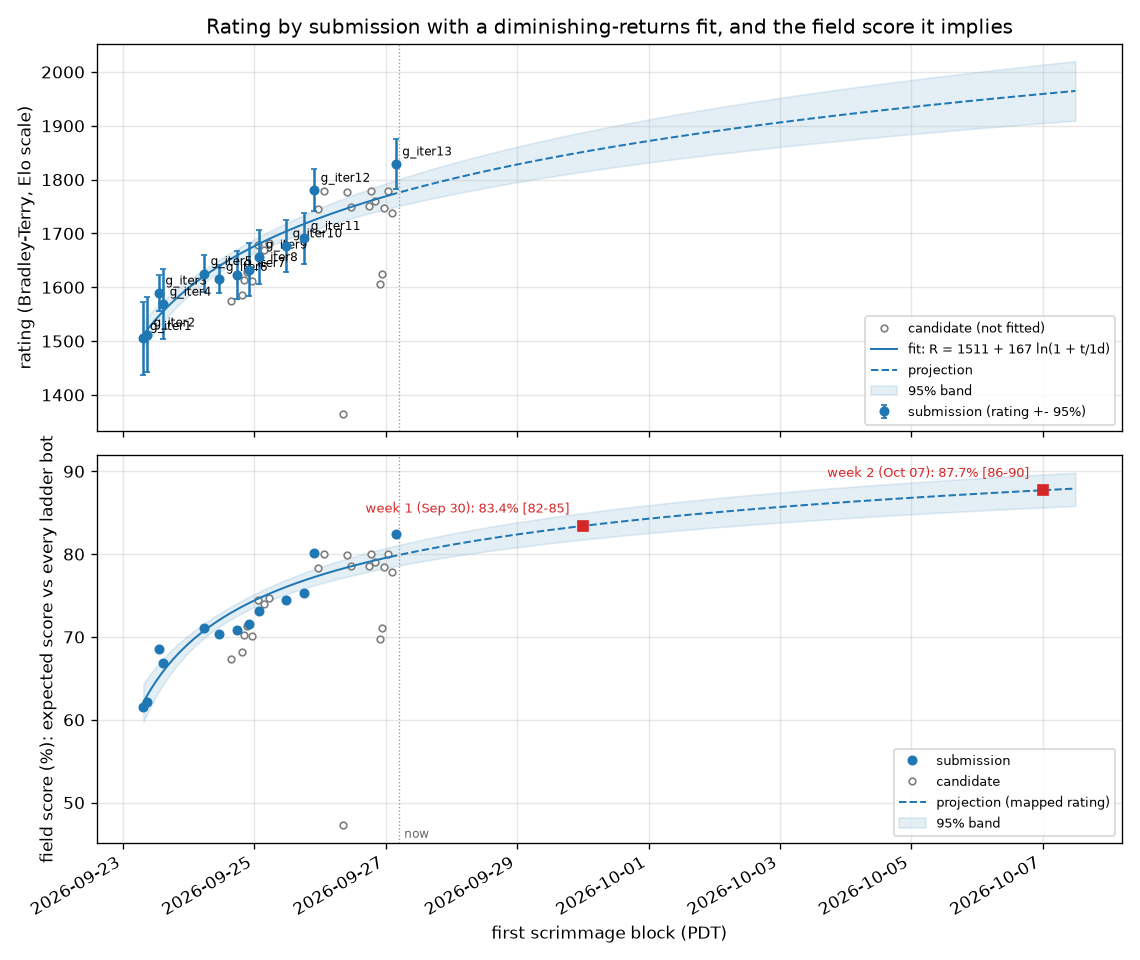
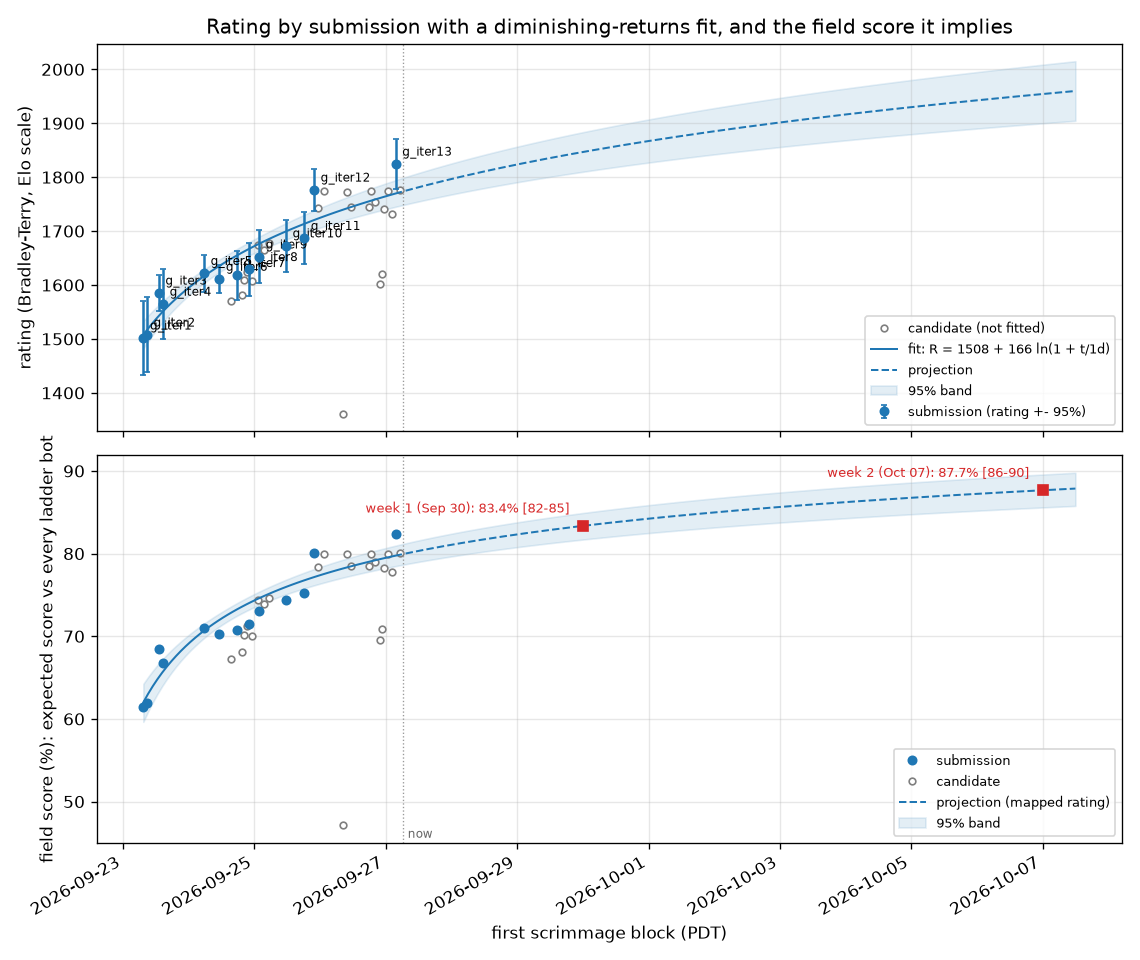
PROMPTS 51
Claude-Session: https://claude.ai/code/session_015tNyF5ucwWW1mudpEQTT25

diff --git a/progress/ELO.md b/progress/ELO.md
@@ -1,146 +1,148 @@
 # Ladder
 
-8200 scrimmages (ours only), 7676 distinct (a repeated pairing with the same seed replays the same game and counts once), rated by a batch Bradley-Terry fit on the Elo scale (`tools/elolib.py`); each of our builds is its own player. 65 of 65 ladder bots met.
+8248 scrimmages (ours only), 7724 distinct (a repeated pairing with the same seed replays the same game and counts once), rated by a batch Bradley-Terry fit on the Elo scale (`tools/elolib.py`); each of our builds is its own player. 65 of 65 ladder bots met.
 
 Our builds (rating +- 95%; field score = expected score against every ladder bot, one game each):
 
 | build | rating | rank | games | record | field score |
 |---|---|---|---|---|---|
-| g_iter13 | 1829 +- 46 | 12 of 100 | 240 | 134-106 | 82.4% |
-| g_iter12 | 1780 +- 40 | 14 of 100 | 336 | 159-177 | 80.1% |
-| cand69 | 1779 +- 73 | 15 of 100 | 96 | 46-50 | 80.0% |
-| r1s13 | 1779 +- 46 | 16 of 100 | 240 | 118-122 | 80.0% |
-| cand86s3 | 1779 +- 46 | 17 of 100 | 240 | 118-122 | 80.0% |
-| cand81 | 1777 +- 91 | 18 of 100 | 95 | 67-28 | 79.9% |
-| cand87 | 1760 +- 46 | 19 of 100 | 240 | 112-128 | 79.1% |
-| cand86s2 | 1750 +- 73 | 20 of 100 | 96 | 44-52 | 78.6% |
-| cand81s8 | 1750 +- 48 | 21 of 100 | 240 | 85-155 | 78.6% |
-| r1s11 | 1747 +- 46 | 22 of 100 | 240 | 108-132 | 78.4% |
-| cand65 | 1746 +- 74 | 23 of 100 | 96 | 42-54 | 78.4% |
-| r1s14 | 1737 +- 46 | 24 of 100 | 240 | 105-135 | 77.9% |
-| g_iter11 | 1691 +- 48 | 25 of 100 | 240 | 107-133 | 75.3% |
-| cand49b | 1682 +- 75 | 26 of 100 | 96 | 42-54 | 74.7% |
-| cand43b | 1678 +- 79 | 27 of 100 | 96 | 64-32 | 74.5% |
-| g_iter10 | 1677 +- 48 | 28 of 100 | 240 | 103-137 | 74.5% |
-| cand47d | 1669 +- 54 | 30 of 100 | 192 | 73-119 | 74.0% |
-| g_iter9 | 1656 +- 49 | 32 of 100 | 240 | 78-162 | 73.1% |
-| g_iter8 | 1633 +- 49 | 33 of 100 | 240 | 108-132 | 71.6% |
-| cand41b | 1629 +- 76 | 35 of 100 | 96 | 51-45 | 71.3% |
-| g_iter5 | 1626 +- 34 | 36 of 100 | 618 | 329-289 | 71.1% |
-| r1s8 | 1624 +- 78 | 37 of 100 | 96 | 29-67 | 71.0% |
-| g_iter7 | 1622 +- 45 | 38 of 100 | 288 | 135-153 | 70.9% |
-| g_iter6 | 1615 +- 26 | 39 of 100 | 886 | 450-436 | 70.4% |
-| cand40c | 1614 +- 77 | 40 of 100 | 96 | 57-39 | 70.3% |
-| cand42c | 1612 +- 76 | 41 of 100 | 96 | 49-47 | 70.1% |
-| r1s3 | 1606 +- 80 | 42 of 100 | 96 | 27-69 | 69.7% |
-| iter24 | 1600 +- 130 | 43 of 100 | 46 | 11-35 | 69.3% |
-| g_iter3 | 1589 +- 33 | 44 of 100 | 796 | 167-629 | 68.5% |
-| cand37 | 1586 +- 76 | 45 of 100 | 96 | 46-50 | 68.2% |
-| cand31 | 1575 +- 75 | 46 of 100 | 96 | 52-44 | 67.4% |
-| g_iter4 | 1569 +- 65 | 47 of 100 | 217 | 43-174 | 66.9% |
-| g_iter2 | 1512 +- 70 | 48 of 100 | 192 | 44-148 | 62.1% |
-| g_iter1 | 1505 +- 69 | 49 of 100 | 170 | 95-75 | 61.5% |
-| arch_enclosure | 1365 +- 165 | 53 of 100 | 48 | 4-44 | 47.3% |
+| g_iter13 | 1824 +- 46 | 12 of 101 | 240 | 134-106 | 82.4% |
+| g_iter12 | 1776 +- 40 | 14 of 101 | 336 | 159-177 | 80.1% |
+| r1s16 | 1776 +- 103 | 15 of 101 | 48 | 19-29 | 80.1% |
+| cand69 | 1775 +- 73 | 16 of 101 | 96 | 46-50 | 80.0% |
+| r1s13 | 1774 +- 46 | 17 of 101 | 240 | 118-122 | 79.9% |
+| cand86s3 | 1774 +- 46 | 18 of 101 | 240 | 118-122 | 79.9% |
+| cand81 | 1773 +- 91 | 19 of 101 | 95 | 67-28 | 79.9% |
+| cand87 | 1755 +- 46 | 20 of 101 | 240 | 112-128 | 79.0% |
+| cand86s2 | 1745 +- 73 | 21 of 101 | 96 | 44-52 | 78.5% |
+| cand81s8 | 1745 +- 48 | 22 of 101 | 240 | 85-155 | 78.5% |
+| cand65 | 1742 +- 74 | 23 of 101 | 96 | 42-54 | 78.3% |
+| r1s11 | 1742 +- 46 | 24 of 101 | 240 | 108-132 | 78.3% |
+| r1s14 | 1732 +- 46 | 25 of 101 | 240 | 105-135 | 77.8% |
+| g_iter11 | 1687 +- 48 | 26 of 101 | 240 | 107-133 | 75.2% |
+| cand49b | 1677 +- 75 | 27 of 101 | 96 | 42-54 | 74.7% |
+| cand43b | 1674 +- 79 | 28 of 101 | 96 | 64-32 | 74.4% |
+| g_iter10 | 1673 +- 48 | 29 of 101 | 240 | 103-137 | 74.4% |
+| cand47d | 1665 +- 54 | 31 of 101 | 192 | 73-119 | 73.9% |
+| g_iter9 | 1652 +- 49 | 33 of 101 | 240 | 78-162 | 73.1% |
+| g_iter8 | 1629 +- 49 | 34 of 101 | 240 | 108-132 | 71.5% |
+| cand41b | 1625 +- 76 | 36 of 101 | 96 | 51-45 | 71.2% |
+| g_iter5 | 1622 +- 34 | 37 of 101 | 618 | 329-289 | 71.0% |
+| r1s8 | 1620 +- 78 | 38 of 101 | 96 | 29-67 | 70.9% |
+| g_iter7 | 1618 +- 45 | 39 of 101 | 288 | 135-153 | 70.8% |
+| g_iter6 | 1611 +- 26 | 40 of 101 | 886 | 450-436 | 70.3% |
+| cand40c | 1609 +- 77 | 41 of 101 | 96 | 57-39 | 70.2% |
+| cand42c | 1607 +- 76 | 42 of 101 | 96 | 49-47 | 70.0% |
+| r1s3 | 1601 +- 80 | 43 of 101 | 96 | 27-69 | 69.6% |
+| iter24 | 1596 +- 130 | 44 of 101 | 46 | 11-35 | 69.2% |
+| g_iter3 | 1585 +- 33 | 45 of 101 | 796 | 167-629 | 68.4% |
+| cand37 | 1581 +- 76 | 46 of 101 | 96 | 46-50 | 68.1% |
+| cand31 | 1571 +- 75 | 47 of 101 | 96 | 52-44 | 67.3% |
+| g_iter4 | 1565 +- 65 | 48 of 101 | 217 | 43-174 | 66.8% |
+| g_iter2 | 1507 +- 70 | 49 of 101 | 192 | 44-148 | 62.0% |
+| g_iter1 | 1502 +- 68 | 50 of 101 | 170 | 95-75 | 61.5% |
+| arch_enclosure | 1361 +- 165 | 54 of 101 | 48 | 4-44 | 47.1% |
 
 | rank | player | rating | +- 95% | games | W-L |
 |---|---|---|---|---|---|
-| 1 | awesomelemonade.citricsky | 2193 | 200 | 103 | 101-2 |
-| 2 | uvafan.v14_final_bot | 2184 | 200 | 98 | 96-2 |
-| 3 | AngusRitossa.newbot | 2125 | 174 | 95 | 92-3 |
-| 4 | StoneT2000.FinalChowBotStable | 2068 | 181 | 39 | 36-3 |
-| 5 | ronniesong0809.finalbota | 2010 | 98 | 127 | 114-13 |
-| 6 | IvanGeffner.finalbota | 1974 | 82 | 155 | 135-20 |
-| 7 | battlecode20-team4.finalbota | 1973 | 65 | 256 | 225-31 |
-| 8 | winkelmantanner.tannerplayer | 1913 | 33 | 602 | 463-139 |
-| 9 | mvpatel2000.qual | 1908 | 33 | 589 | 449-140 |
-| 10 | rzhan11.quals_bot | 1864 | 42 | 332 | 233-99 |
-| 11 | EmaPajic.Qualifications | 1852 | 30 | 652 | 463-189 |
-| 12 | **us:g_iter13** | 1829 | 46 | 240 | 134-106 |
-| 13 | poortho.stable_seeding_bot | 1788 | 25 | 821 | 535-286 |
-| 14 | **us:g_iter12** | 1780 | 40 | 336 | 159-177 |
-| 15 | **us:cand69** | 1779 | 73 | 96 | 46-50 |
-| 16 | **us:r1s13** | 1779 | 46 | 240 | 118-122 |
-| 17 | **us:cand86s3** | 1779 | 46 | 240 | 118-122 |
-| 18 | **us:cand81** | 1777 | 91 | 95 | 67-28 |
-| 19 | **us:cand87** | 1760 | 46 | 240 | 112-128 |
-| 20 | **us:cand86s2** | 1750 | 73 | 96 | 44-52 |
-| 21 | **us:cand81s8** | 1750 | 48 | 240 | 85-155 |
-| 22 | **us:r1s11** | 1747 | 46 | 240 | 108-132 |
-| 23 | **us:cand65** | 1746 | 74 | 96 | 42-54 |
-| 24 | **us:r1s14** | 1737 | 46 | 240 | 105-135 |
-| 25 | **us:g_iter11** | 1691 | 48 | 240 | 107-133 |
-| 26 | **us:cand49b** | 1682 | 75 | 96 | 42-54 |
-| 27 | **us:cand43b** | 1678 | 79 | 96 | 64-32 |
-| 28 | **us:g_iter10** | 1677 | 48 | 240 | 103-137 |
-| 29 | cormackikkert.whyPermutator | 1672 | 25 | 811 | 405-406 |
-| 30 | **us:cand47d** | 1669 | 54 | 192 | 73-119 |
-| 31 | laurenschneider.pdx_team_one | 1662 | 24 | 818 | 398-420 |
-| 32 | **us:g_iter9** | 1656 | 49 | 240 | 78-162 |
-| 33 | **us:g_iter8** | 1633 | 49 | 240 | 108-132 |
-| 34 | benzyx.seeding | 1629 | 25 | 814 | 360-454 |
-| 35 | **us:cand41b** | 1629 | 76 | 96 | 51-45 |
-| 36 | **us:g_iter5** | 1626 | 34 | 618 | 329-289 |
-| 37 | **us:r1s8** | 1624 | 78 | 96 | 29-67 |
-| 38 | **us:g_iter7** | 1622 | 45 | 288 | 135-153 |
-| 39 | **us:g_iter6** | 1615 | 26 | 886 | 450-436 |
-| 40 | **us:cand40c** | 1614 | 77 | 96 | 57-39 |
-| 41 | **us:cand42c** | 1612 | 76 | 96 | 49-47 |
-| 42 | **us:r1s3** | 1606 | 80 | 96 | 27-69 |
-| 43 | **us:iter24** | 1600 | 130 | 46 | 11-35 |
-| 44 | **us:g_iter3** | 1589 | 33 | 796 | 167-629 |
-| 45 | **us:cand37** | 1586 | 76 | 96 | 46-50 |
-| 46 | **us:cand31** | 1575 | 75 | 96 | 52-44 |
-| 47 | **us:g_iter4** | 1569 | 65 | 217 | 43-174 |
-| 48 | **us:g_iter2** | 1512 | 70 | 192 | 44-148 |
-| 49 | **us:g_iter1** | 1505 | 69 | 170 | 95-75 |
-| 50 | wpine215.stardustv2 | 1443 | 36 | 461 | 122-339 |
-| 51 | mhahn2003.nonrush | 1397 | 51 | 256 | 57-199 |
-| 52 | eggag32.BrutalPigeonBot | 1396 | 58 | 200 | 43-157 |
-| 53 | **us:arch_enclosure** | 1365 | 165 | 48 | 4-44 |
-| 54 | cs454-w20-team3.playbot | 1362 | 112 | 56 | 11-45 |
-| 55 | ARognes.FinalSubmission | 1349 | 144 | 37 | 6-31 |
-| 56 | TeamSerpentine.noodleBot | 1339 | 144 | 38 | 6-32 |
-| 57 | yaonam.Robot_1 | 1326 | 155 | 33 | 5-28 |
-| 58 | opheez.landscapers | 1325 | 269 | 9 | 1-8 |
-| 59 | ovimura.welovesoup | 1325 | 269 | 9 | 1-8 |
-| 60 | rsandzimier.SandSibs_seeding | 1325 | 269 | 9 | 1-8 |
-| 61 | thissop.alpha | 1325 | 269 | 9 | 1-8 |
-| 62 | VinayaBhat.team10pdx | 1320 | 223 | 15 | 2-13 |
-| 63 | WilliamYue37.Player1 | 1320 | 140 | 46 | 6-40 |
-| 64 | Tim-gubski.AngryWaffleMaker | 1314 | 154 | 32 | 5-27 |
-| 65 | cosimogonnelli.Team3player | 1309 | 275 | 7 | 1-6 |
-| 66 | LucianCov.ourRobot | 1304 | 384 | 3 | 0-3 |
-| 67 | MrHoseongLee.Neptune_v3 | 1304 | 384 | 3 | 0-3 |
-| 68 | Phrancium.Frankplayer1 | 1304 | 384 | 3 | 0-3 |
-| 69 | Pleket.Bot | 1304 | 384 | 3 | 0-3 |
-| 70 | Strequals.rw8 | 1304 | 384 | 3 | 0-3 |
-| 71 | Sukanya-Kothapally.team4player | 1304 | 384 | 3 | 0-3 |
-| 72 | TeamSerpentine.eendagsvliegjes | 1304 | 384 | 3 | 0-3 |
-| 73 | Tolsi.mybot | 1304 | 384 | 3 | 0-3 |
-| 74 | anthonybench.FunkBot | 1304 | 384 | 3 | 0-3 |
-| 75 | atliSig.buttletplayer | 1304 | 384 | 3 | 0-3 |
-| 76 | charboltron.team11newbot | 1304 | 384 | 3 | 0-3 |
-| 77 | djkeyes.addingComm | 1304 | 384 | 3 | 0-3 |
-| 78 | fewella.FirstPlayer | 1304 | 384 | 3 | 0-3 |
-| 79 | jmerle.camel_case_sprint | 1304 | 384 | 3 | 0-3 |
-| 80 | kylittle.qualsbot2 | 1304 | 384 | 3 | 0-3 |
-| 81 | lfchain.bigBudsBot | 1304 | 384 | 3 | 0-3 |
-| 82 | luisgonzalex.CodeMonkeys | 1304 | 384 | 3 | 0-3 |
-| 83 | mama4294.maloneplayer | 1304 | 384 | 3 | 0-3 |
-| 84 | max-titov.seeding | 1304 | 384 | 3 | 0-3 |
-| 85 | michaeltliu.beginnerplayer | 1304 | 384 | 3 | 0-3 |
-| 86 | monmouth-college-cs.MyFirstPlayer | 1304 | 384 | 3 | 0-3 |
-| 87 | ngkuru.qualifyingtournament | 1304 | 384 | 3 | 0-3 |
-| 88 | orionquick.aldebaranplayer | 1304 | 384 | 3 | 0-3 |
-| 89 | snpushpi.whatamidoing | 1304 | 384 | 3 | 0-3 |
-| 90 | stevetimberman.playerbbbbb | 1304 | 384 | 3 | 0-3 |
-| 91 | willBoyd8.bb8 | 1304 | 384 | 3 | 0-3 |
-| 92 | jenlz.bustedJulianbot | 1299 | 262 | 14 | 1-13 |
-| 93 | A9ine.potato | 1190 | 365 | 6 | 0-6 |
-| 94 | 9mAhmad.MahinBot | 1164 | 362 | 7 | 0-7 |
-| 95 | 9mAhmad.lostincoordinates | 1164 | 362 | 7 | 0-7 |
-| 96 | AllenWang314.bot1 | 1164 | 362 | 7 | 0-7 |
-| 97 | GabrielDWu.buildawall2 | 1164 | 362 | 7 | 0-7 |
-| 98 | J-J-Chen.player | 1164 | 362 | 7 | 0-7 |
-| 99 | KyleHassold.sprintbot | 1164 | 362 | 7 | 0-7 |
-| 100 | denver-blake.sprint | 1164 | 362 | 7 | 0-7 |
+| 1 | awesomelemonade.citricsky | 2189 | 200 | 103 | 101-2 |
+| 2 | uvafan.v14_final_bot | 2180 | 200 | 98 | 96-2 |
+| 3 | AngusRitossa.newbot | 2121 | 174 | 95 | 92-3 |
+| 4 | StoneT2000.FinalChowBotStable | 2064 | 181 | 39 | 36-3 |
+| 5 | ronniesong0809.finalbota | 2006 | 98 | 127 | 114-13 |
+| 6 | IvanGeffner.finalbota | 1975 | 80 | 161 | 140-21 |
+| 7 | battlecode20-team4.finalbota | 1971 | 64 | 262 | 230-32 |
+| 8 | winkelmantanner.tannerplayer | 1910 | 33 | 608 | 468-140 |
+| 9 | mvpatel2000.qual | 1904 | 33 | 595 | 453-142 |
+| 10 | rzhan11.quals_bot | 1855 | 41 | 338 | 235-103 |
+| 11 | EmaPajic.Qualifications | 1847 | 30 | 658 | 466-192 |
+| 12 | **us:g_iter13** | 1824 | 46 | 240 | 134-106 |
+| 13 | poortho.stable_seeding_bot | 1784 | 25 | 827 | 538-289 |
+| 14 | **us:g_iter12** | 1776 | 40 | 336 | 159-177 |
+| 15 | **us:r1s16** | 1776 | 103 | 48 | 19-29 |
+| 16 | **us:cand69** | 1775 | 73 | 96 | 46-50 |
+| 17 | **us:r1s13** | 1774 | 46 | 240 | 118-122 |
+| 18 | **us:cand86s3** | 1774 | 46 | 240 | 118-122 |
+| 19 | **us:cand81** | 1773 | 91 | 95 | 67-28 |
+| 20 | **us:cand87** | 1755 | 46 | 240 | 112-128 |
+| 21 | **us:cand86s2** | 1745 | 73 | 96 | 44-52 |
+| 22 | **us:cand81s8** | 1745 | 48 | 240 | 85-155 |
+| 23 | **us:cand65** | 1742 | 74 | 96 | 42-54 |
+| 24 | **us:r1s11** | 1742 | 46 | 240 | 108-132 |
+| 25 | **us:r1s14** | 1732 | 46 | 240 | 105-135 |
+| 26 | **us:g_iter11** | 1687 | 48 | 240 | 107-133 |
+| 27 | **us:cand49b** | 1677 | 75 | 96 | 42-54 |
+| 28 | **us:cand43b** | 1674 | 79 | 96 | 64-32 |
+| 29 | **us:g_iter10** | 1673 | 48 | 240 | 103-137 |
+| 30 | cormackikkert.whyPermutator | 1667 | 24 | 817 | 407-410 |
+| 31 | **us:cand47d** | 1665 | 54 | 192 | 73-119 |
+| 32 | laurenschneider.pdx_team_one | 1658 | 24 | 818 | 398-420 |
+| 33 | **us:g_iter9** | 1652 | 49 | 240 | 78-162 |
+| 34 | **us:g_iter8** | 1629 | 49 | 240 | 108-132 |
+| 35 | benzyx.seeding | 1625 | 25 | 814 | 360-454 |
+| 36 | **us:cand41b** | 1625 | 76 | 96 | 51-45 |
+| 37 | **us:g_iter5** | 1622 | 34 | 618 | 329-289 |
+| 38 | **us:r1s8** | 1620 | 78 | 96 | 29-67 |
+| 39 | **us:g_iter7** | 1618 | 45 | 288 | 135-153 |
+| 40 | **us:g_iter6** | 1611 | 26 | 886 | 450-436 |
+| 41 | **us:cand40c** | 1609 | 77 | 96 | 57-39 |
+| 42 | **us:cand42c** | 1607 | 76 | 96 | 49-47 |
+| 43 | **us:r1s3** | 1601 | 80 | 96 | 27-69 |
+| 44 | **us:iter24** | 1596 | 130 | 46 | 11-35 |
+| 45 | **us:g_iter3** | 1585 | 33 | 796 | 167-629 |
+| 46 | **us:cand37** | 1581 | 76 | 96 | 46-50 |
+| 47 | **us:cand31** | 1571 | 75 | 96 | 52-44 |
+| 48 | **us:g_iter4** | 1565 | 65 | 217 | 43-174 |
+| 49 | **us:g_iter2** | 1507 | 70 | 192 | 44-148 |
+| 50 | **us:g_iter1** | 1502 | 68 | 170 | 95-75 |
+| 51 | wpine215.stardustv2 | 1439 | 36 | 461 | 122-339 |
+| 52 | mhahn2003.nonrush | 1392 | 51 | 256 | 57-199 |
+| 53 | eggag32.BrutalPigeonBot | 1392 | 58 | 200 | 43-157 |
+| 54 | **us:arch_enclosure** | 1361 | 165 | 48 | 4-44 |
+| 55 | cs454-w20-team3.playbot | 1358 | 112 | 56 | 11-45 |
+| 56 | ARognes.FinalSubmission | 1345 | 144 | 37 | 6-31 |
+| 57 | TeamSerpentine.noodleBot | 1335 | 144 | 38 | 6-32 |
+| 58 | yaonam.Robot_1 | 1323 | 154 | 33 | 5-28 |
+| 59 | opheez.landscapers | 1322 | 268 | 9 | 1-8 |
+| 60 | ovimura.welovesoup | 1322 | 268 | 9 | 1-8 |
+| 61 | rsandzimier.SandSibs_seeding | 1322 | 268 | 9 | 1-8 |
+| 62 | thissop.alpha | 1322 | 268 | 9 | 1-8 |
+| 63 | VinayaBhat.team10pdx | 1317 | 222 | 15 | 2-13 |
+| 64 | WilliamYue37.Player1 | 1316 | 140 | 46 | 6-40 |
+| 65 | Tim-gubski.AngryWaffleMaker | 1311 | 154 | 32 | 5-27 |
+| 66 | cosimogonnelli.Team3player | 1306 | 275 | 7 | 1-6 |
+| 67 | LucianCov.ourRobot | 1302 | 384 | 3 | 0-3 |
+| 68 | MrHoseongLee.Neptune_v3 | 1302 | 384 | 3 | 0-3 |
+| 69 | Phrancium.Frankplayer1 | 1302 | 384 | 3 | 0-3 |
+| 70 | Pleket.Bot | 1302 | 384 | 3 | 0-3 |
+| 71 | Strequals.rw8 | 1302 | 384 | 3 | 0-3 |
+| 72 | Sukanya-Kothapally.team4player | 1302 | 384 | 3 | 0-3 |
+| 73 | TeamSerpentine.eendagsvliegjes | 1302 | 384 | 3 | 0-3 |
+| 74 | Tolsi.mybot | 1302 | 384 | 3 | 0-3 |
+| 75 | anthonybench.FunkBot | 1302 | 384 | 3 | 0-3 |
+| 76 | atliSig.buttletplayer | 1302 | 384 | 3 | 0-3 |
+| 77 | charboltron.team11newbot | 1302 | 384 | 3 | 0-3 |
+| 78 | djkeyes.addingComm | 1302 | 384 | 3 | 0-3 |
+| 79 | fewella.FirstPlayer | 1302 | 384 | 3 | 0-3 |
+| 80 | jmerle.camel_case_sprint | 1302 | 384 | 3 | 0-3 |
+| 81 | kylittle.qualsbot2 | 1302 | 384 | 3 | 0-3 |
+| 82 | lfchain.bigBudsBot | 1302 | 384 | 3 | 0-3 |
+| 83 | luisgonzalex.CodeMonkeys | 1302 | 384 | 3 | 0-3 |
+| 84 | mama4294.maloneplayer | 1302 | 384 | 3 | 0-3 |
+| 85 | max-titov.seeding | 1302 | 384 | 3 | 0-3 |
+| 86 | michaeltliu.beginnerplayer | 1302 | 384 | 3 | 0-3 |
+| 87 | monmouth-college-cs.MyFirstPlayer | 1302 | 384 | 3 | 0-3 |
+| 88 | ngkuru.qualifyingtournament | 1302 | 384 | 3 | 0-3 |
+| 89 | orionquick.aldebaranplayer | 1302 | 384 | 3 | 0-3 |
+| 90 | snpushpi.whatamidoing | 1302 | 384 | 3 | 0-3 |
+| 91 | stevetimberman.playerbbbbb | 1302 | 384 | 3 | 0-3 |
+| 92 | willBoyd8.bb8 | 1302 | 384 | 3 | 0-3 |
+| 93 | jenlz.bustedJulianbot | 1296 | 262 | 14 | 1-13 |
+| 94 | A9ine.potato | 1188 | 365 | 6 | 0-6 |
+| 95 | 9mAhmad.MahinBot | 1162 | 362 | 7 | 0-7 |
+| 96 | 9mAhmad.lostincoordinates | 1162 | 362 | 7 | 0-7 |
+| 97 | AllenWang314.bot1 | 1162 | 362 | 7 | 0-7 |
+| 98 | GabrielDWu.buildawall2 | 1162 | 362 | 7 | 0-7 |
+| 99 | J-J-Chen.player | 1162 | 362 | 7 | 0-7 |
+| 100 | KyleHassold.sprintbot | 1162 | 362 | 7 | 0-7 |
+| 101 | denver-blake.sprint | 1162 | 362 | 7 | 0-7 |

diff --git a/BENCHMARK.md b/BENCHMARK.md
@@ -62,7 +62,7 @@ build with at least 200 recorded games: a candidate's short ladder arm never re-
 | `EmaPajic.Mark3` | EmaPajic_Battlecode-2020 (c060a22) | - | - | untested |  |
 | `EmaPajic.Mark4` | EmaPajic_Battlecode-2020 (c060a22) | - | - | untested |  |
 | `EmaPajic.Mark5` | EmaPajic_Battlecode-2020 (c060a22) | - | - | untested |  |
-| `EmaPajic.Qualifications` | EmaPajic_Battlecode-2020 (c060a22) | 50 | 30 | peer | 20 0 21 0 50 0 17 38 8 25 10 17 20 33 33 30 20 50 42 33 33 40 40 33 43 40 8 17 40 20 30 50 |
+| `EmaPajic.Qualifications` | EmaPajic_Battlecode-2020 (c060a22) | 50 | 30 | peer | 20 0 21 0 50 0 17 38 8 25 10 17 20 33 33 30 20 50 42 33 33 40 40 33 43 40 8 17 40 20 30 50 50 |
 | `EmaPajic.SeedingBot` | EmaPajic_Battlecode-2020 (c060a22) | - | - | untested |  |
 | `GabrielDWu.basicbot` | GabrielDWu_blezers-battlecode2020 (c0283f8) | - | - | untested |  |
 | `GabrielDWu.blezerbot` | GabrielDWu_blezers-battlecode2020 (c0283f8) | - | - | untested |  |
@@ -80,7 +80,7 @@ build with at least 200 recorded games: a candidate's short ladder arm never re-
 | `IvanGeffner.dronecrunchplus` | IvanGeffner_battlecode2020 (bc7dbca) | - | - | untested |  |
 | `IvanGeffner.ecoplayer` | IvanGeffner_battlecode2020 (bc7dbca) | - | - | untested |  |
 | `IvanGeffner.ecoplus` | IvanGeffner_battlecode2020 (bc7dbca) | - | - | untested |  |
-| `IvanGeffner.finalbota` | IvanGeffner_battlecode2020 (bc7dbca) | 11 | 18 | locked | 0 8 12 18 0 0 17 42 0 0 11 |
+| `IvanGeffner.finalbota` | IvanGeffner_battlecode2020 (bc7dbca) | 11 | 18 | locked | 0 8 12 18 0 0 17 42 0 0 11 17 |
 | `IvanGeffner.finalbotb` | IvanGeffner_battlecode2020 (bc7dbca) | - | - | untested |  |
 | `IvanGeffner.finalbotc` | IvanGeffner_battlecode2020 (bc7dbca) | - | - | untested |  |
 | `IvanGeffner.landscaperop` | IvanGeffner_battlecode2020 (bc7dbca) | - | - | untested |  |
@@ -160,7 +160,7 @@ build with at least 200 recorded games: a candidate's short ladder arm never re-
 | `arya-k.donothing` | arya-k_bc20 (1b969b3) | - | - | untested |  |
 | `atliSig.buttletplayer` | atliSig_battlecode20-scaffold (b64b063) | 100 | 2 | peer(>90 once) | 100 100 |
 | `awesomelemonade.citricsky` | awesomelemonade_Battlecode2020 (7a50e66) | 0 | 11 | locked | 0 0 3 0 0 0 |
-| `battlecode20-team4.finalbota` | battlecode20-team4_battlecode20-scaffold (1cee065) | 0 | 18 | locked | 0 8 23 24 25 18 14 7 10 8 0 0 |
+| `battlecode20-team4.finalbota` | battlecode20-team4_battlecode20-scaffold (1cee065) | 0 | 18 | locked | 0 8 23 24 25 18 14 7 10 8 0 0 17 |
 | `battlecode20-team4.team4enemy` | battlecode20-team4_battlecode20-scaffold (1cee065) | - | - | untested |  |
 | `battlecode20-team4.team4player` | battlecode20-team4_battlecode20-scaffold (1cee065) | - | - | untested |  |
 | `battlecode.lectureplayer` | battlecode_lectureplayer (2836576) | - | - | untested |  |
@@ -175,7 +175,7 @@ build with at least 200 recorded games: a candidate's short ladder arm never re-
 | `benzyx.tortuga` | benzyx_bc20-waterloo (05df2e7) | - | - | untested |  |
 | `charboltron.master_player` | charboltron_pdx_battlecode_2020_team_11 (f78f1e3) | - | - | untested |  |
 | `charboltron.team11newbot` | charboltron_pdx_battlecode_2020_team_11 (f78f1e3) | 100 | 2 | peer(>90 once) | 100 100 |
-| `cormackikkert.whyPermutator` | cormackikkert_battlecode2020 (4d230c4) | 70 | 30 | peer | 25 17 38 40 25 42 45 25 28 25 42 33 47 58 42 50 38 75 60 50 71 67 75 17 83 75 50 67 60 50 42 57 80 47 70 |
+| `cormackikkert.whyPermutator` | cormackikkert_battlecode2020 (4d230c4) | 70 | 30 | peer | 25 17 38 40 25 42 45 25 28 25 42 33 47 58 42 50 38 75 60 50 71 67 75 17 83 75 50 67 60 50 42 57 80 47 70 67 |
 | `cormackikkert.whyPermutatorOld` | cormackikkert_battlecode2020 (4d230c4) | - | - | untested |  |
 | `cosimogonnelli.Team3player` | cosimogonnelli_CS454-554-SE (d7dc657) | 100 | 2 | peer(>90 once) | 80 100 |
 | `cs454-w20-team3.oldbot` | cs454-w20-team3_team3-bot (502c334) | - | - | untested |  |
@@ -246,7 +246,7 @@ build with at least 200 recorded games: a candidate's short ladder arm never re-
 | `mvpatel2000.oldhades` | mvpatel2000_Battlecode2020 (554943e) | - | - | untested |  |
 | `mvpatel2000.poseidon` | mvpatel2000_Battlecode2020 (554943e) | - | - | untested |  |
 | `mvpatel2000.quail` | mvpatel2000_Battlecode2020 (554943e) | - | - | untested |  |
-| `mvpatel2000.qual` | mvpatel2000_Battlecode2020 (554943e) | 33 | 30 | target | 0 8 24 13 67 12 0 12 20 46 8 23 30 26 42 33 0 17 23 17 33 27 17 17 23 37 17 33 |
+| `mvpatel2000.qual` | mvpatel2000_Battlecode2020 (554943e) | 33 | 30 | target | 0 8 24 13 67 12 0 12 20 46 8 23 30 26 42 33 0 17 23 17 33 27 17 17 23 37 17 33 33 |
 | `mvpatel2000.qualAttacc` | mvpatel2000_Battlecode2020 (554943e) | - | - | untested |  |
 | `mvpatel2000.qualNoAtacc` | mvpatel2000_Battlecode2020 (554943e) | - | - | untested |  |
 | `mvpatel2000.seeding` | mvpatel2000_Battlecode2020 (554943e) | - | - | untested |  |
@@ -280,7 +280,7 @@ build with at least 200 recorded games: a candidate's short ladder arm never re-
 | `poortho.rush` | poortho_battlecode-2020 (ebbd61e) | - | - | untested |  |
 | `poortho.rush_bot` | poortho_battlecode-2020 (ebbd61e) | - | - | untested |  |
 | `poortho.stable_miner1` | poortho_battlecode-2020 (ebbd61e) | - | - | untested |  |
-| `poortho.stable_seeding_bot` | poortho_battlecode-2020 (ebbd61e) | 50 | 30 | peer | 0 17 27 31 0 30 31 50 39 33 25 33 33 17 42 37 33 17 27 30 31 58 25 0 33 43 58 43 43 17 25 43 47 53 50 |
+| `poortho.stable_seeding_bot` | poortho_battlecode-2020 (ebbd61e) | 50 | 30 | peer | 0 17 27 31 0 30 31 50 39 33 25 33 33 17 42 37 33 17 27 30 31 58 25 0 33 43 58 43 43 17 25 43 47 53 50 50 |
 | `ps789.dennisTestPlayer` | ps789_AZBattlecode (f1d54ab) | - | - | untested |  |
 | `ps789.phillipTestPlayer` | ps789_AZBattlecode (f1d54ab) | - | - | untested |  |
 | `ronniesong0809.finalbota` | ronniesong0809_battlecode20-RADS (1cee065) | 7 | 30 | locked | 0 18 15 7 0 0 7 |
@@ -293,7 +293,7 @@ build with at least 200 recorded games: a candidate's short ladder arm never re-
 | `rzhan11.kryptonite` | rzhan11_Battlecode2020 (3cc4b50) | - | - | untested |  |
 | `rzhan11.landscaper_rush_bot` | rzhan11_Battlecode2020 (3cc4b50) | - | - | untested |  |
 | `rzhan11.orig_rush_bot` | rzhan11_Battlecode2020 (3cc4b50) | - | - | untested |  |
-| `rzhan11.quals_bot` | rzhan11_Battlecode2020 (3cc4b50) | 47 | 30 | target | 0 17 6 12 0 11 43 25 40 43 0 25 33 37 37 47 |
+| `rzhan11.quals_bot` | rzhan11_Battlecode2020 (3cc4b50) | 47 | 30 | target | 0 17 6 12 0 11 43 25 40 43 0 25 33 37 37 47 67 |
 | `rzhan11.rush_bot` | rzhan11_Battlecode2020 (3cc4b50) | - | - | untested |  |
 | `rzhan11.seeding` | rzhan11_Battlecode2020 (3cc4b50) | - | - | untested |  |
 | `rzhan11.sprint` | rzhan11_Battlecode2020 (3cc4b50) | - | - | untested |  |
@@ -326,7 +326,7 @@ build with at least 200 recorded games: a candidate's short ladder arm never re-
 | `willBoyd8.droideka` | willBoyd8_BattleDroid (4b1d4ad) | - | - | untested |  |
 | `willBoyd8.empire` | willBoyd8_BattleDroid (4b1d4ad) | - | - | untested |  |
 | `willBoyd8.mouse` | willBoyd8_BattleDroid (4b1d4ad) | - | - | untested |  |
-| `winkelmantanner.tannerplayer` | winkelmantanner_battlecode2020_the-levee-builders (7f49f11) | 47 | 30 | target | 0 25 15 23 0 36 12 8 23 17 25 17 27 33 8 50 0 17 23 33 27 20 17 17 17 37 23 47 |
+| `winkelmantanner.tannerplayer` | winkelmantanner_battlecode2020_the-levee-builders (7f49f11) | 47 | 30 | target | 0 25 15 23 0 36 12 8 23 17 25 17 27 33 8 50 0 17 23 33 27 20 17 17 17 37 23 47 17 |
 | `wpine215.stardustv1` | wpine215_battlecode (d570d57) | - | - | untested |  |
 | `wpine215.stardustv2` | wpine215_battlecode (d570d57) | 90 | 30 | peer | 0 30 50 65 100 70 77 58 78 83 67 75 87 100 83 67 100 73 90 |
 | `yaonam.Robot_1` | yaonam_battlecode2020 (bb363f5) | 83 | 12 | peer | 62 100 83 100 |

diff --git a/PROMPTS.md b/PROMPTS.md
@@ -217,3 +217,7 @@ Repeating a portion from the initial prompt: "If you get stuck for ideas, review
 ## 50. 2026-09-26
 
 BTW I'm in the PDT timezone.  Can you make sure that all time considerations are based on that timezone?
+
+## 51. 2026-09-27
+
+Good work overnight.  It sounds like the rewrite did the trick to get you unstuck
